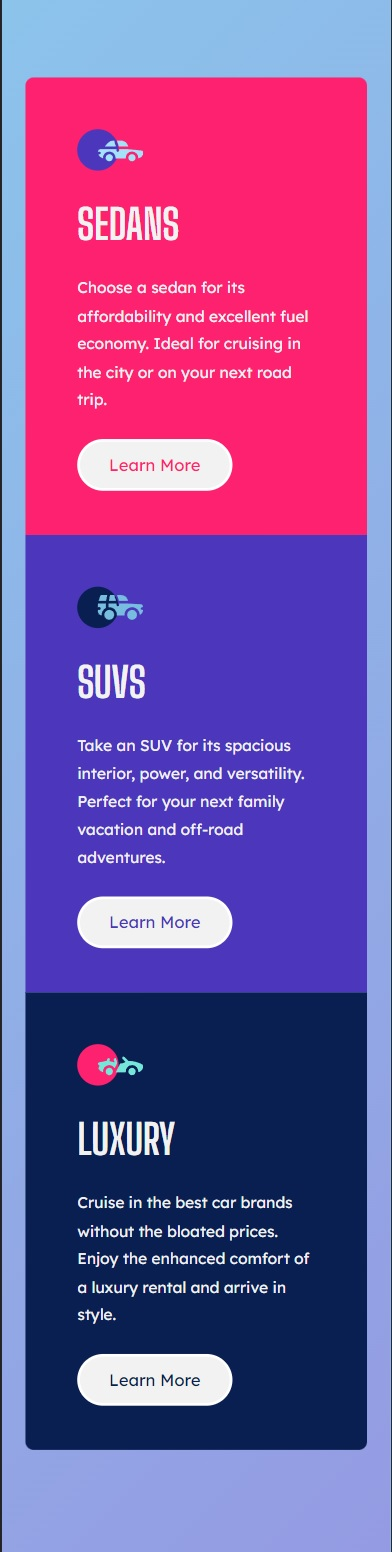
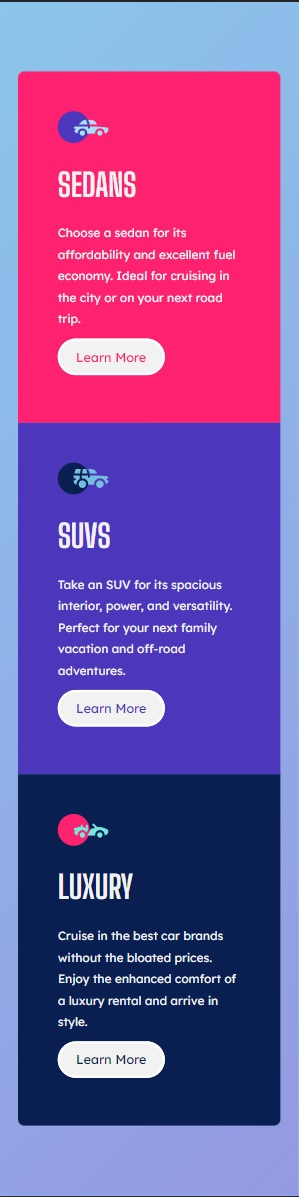
css button update

Changed region(s): [[0.0, 0.0, 0.9632, 1.0], [0.9933, 0.0, 1.0, 1.0]]

diff --git a/index.html b/index.html
@@ -21,8 +21,8 @@
           Choose a sedan for its affordability and excellent fuel economy. Ideal for cruising in the city 
           or on your next road trip.
         </p>
-        <a href="#">
-          <button class="btn-learn-more">Learn More</button>
+        <a href="#" class="btn-learn-more">
+          Learn More
         </a>
       </section>
 
@@ -33,8 +33,8 @@
           Take an SUV for its spacious interior, power, and versatility. Perfect for your next family vacation 
           and off-road adventures.
         </p> 
-        <a href="#">
-          <button class="btn-learn-more">Learn More</button>
+        <a href="#" class="btn-learn-more">
+          Learn More
         </a>
       </section>
 
@@ -45,8 +45,8 @@
         Cruise in the best car brands without the bloated prices. Enjoy the enhanced comfort of a luxury 
         rental and arrive in style.
         </p>
-        <a href="#">
-          <button class="btn-learn-more">Learn More</button>
+        <a href="#" class="btn-learn-more">
+          Learn More
         </a>
       </section>
 

diff --git a/index.css b/index.css
@@ -22,7 +22,7 @@ body {
     min-height: calc(100vh - 1px);
     background-color: #8BC6EC;
     background-image: linear-gradient(135deg, #8BC6EC 0%, #9599E2 100%);
-    margin: 5.5rem 1.5rem;
+    
 
     display: flex;
     flex-direction: column;
@@ -88,8 +88,7 @@ a {
     font-family: "Lexend Deca", sans-serif;
     font-size: 1rem;
     font-weight: 400;
-    width: 9.375rem;
-    height: 3.125rem;
+    padding: 0.625rem 1.25rem;
     border: 3px solid white;
     border-radius: 2rem;
     cursor: pointer;
@@ -146,7 +145,7 @@ a {
         font-size: 0.938rem;
         line-height: 1.6;
         word-spacing: 1px;
-        margin-bottom: 5.125rem;
+        margin-bottom: 6.65rem;
     }
 
     .container .sedans {
